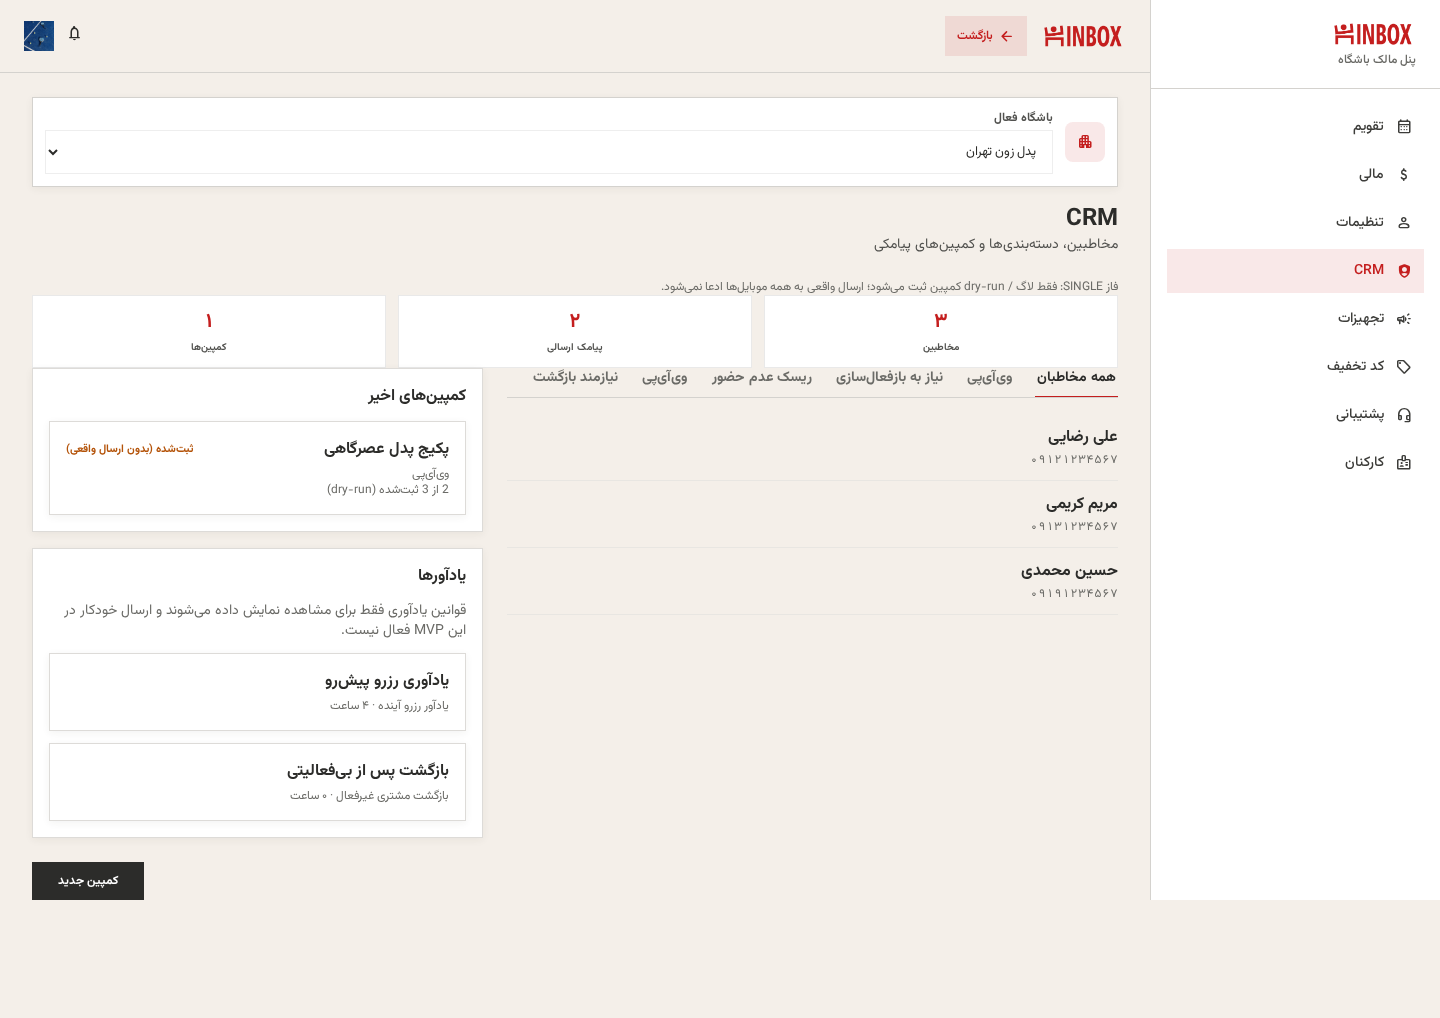
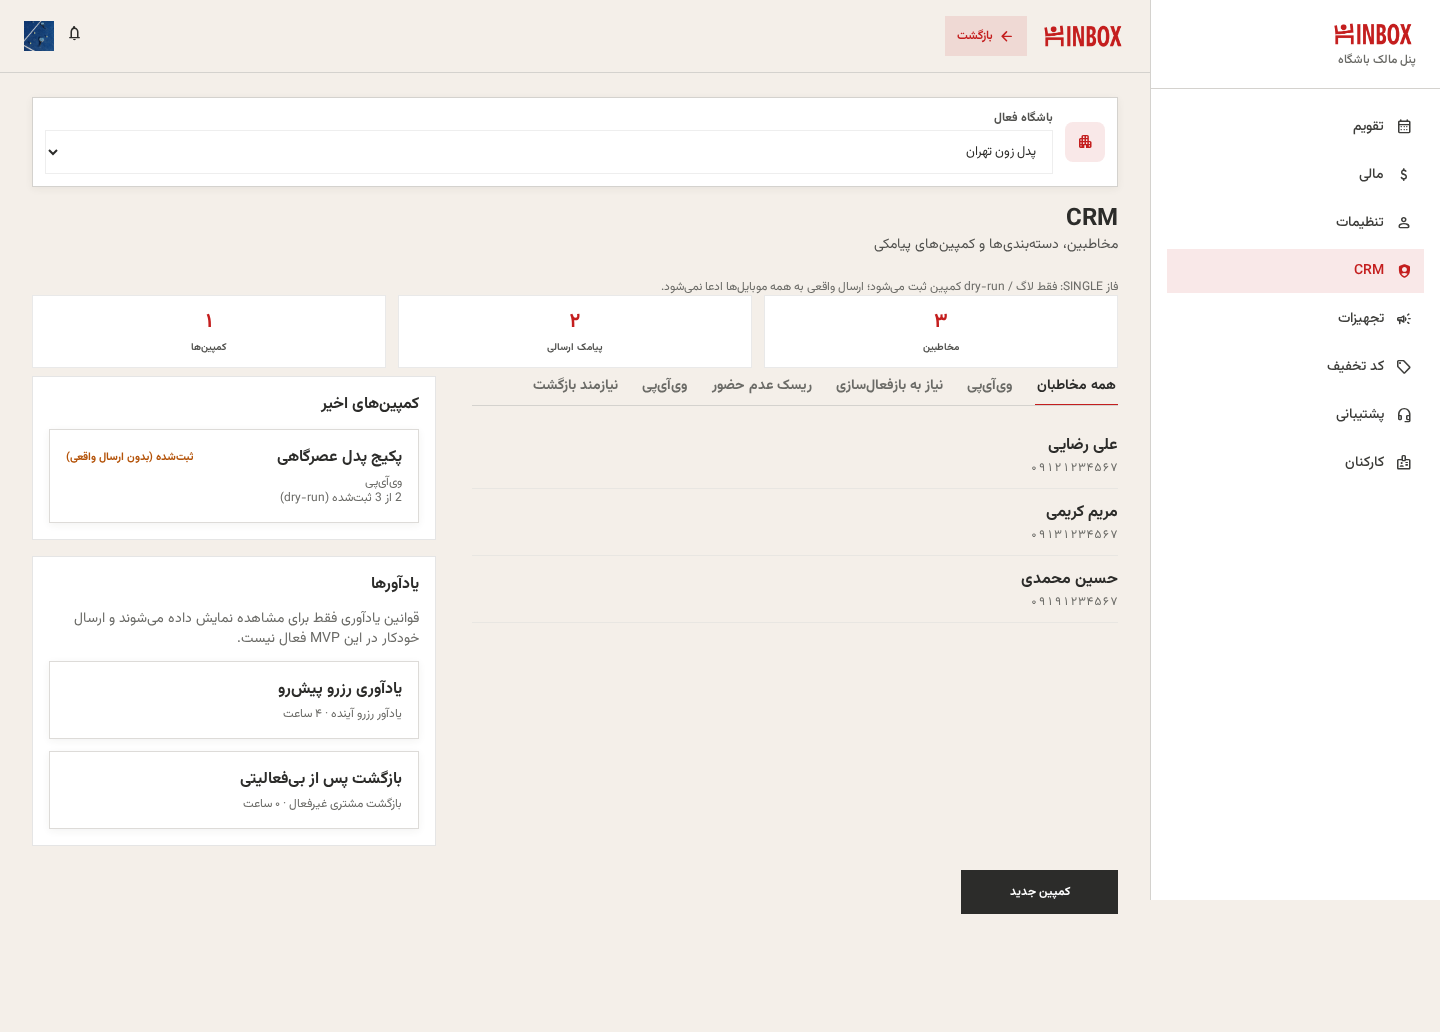
fidelity(owner-crm): SoT column ratio, flat panels, dark compact CTA

diff --git a/app/assets/css/main.css b/app/assets/css/main.css
@@ -4825,3 +4825,11 @@
 @media (min-width: 1024px) {
   .owner-settings-page .canva-gate-btn-secondary { width:220px; padding-block:10px }
 }
+
+/* owner-crm — SoT: list 1.6fr | side 1fr, flat cxbox panels, dark CTA start-aligned ~157px */
+@media (min-width: 1024px) {
+  .owner-crm-page .canva-crm-wide { grid-template-columns:minmax(0,1.6fr) minmax(0,1fr); gap:2.25rem; margin-top:.5rem }
+  .owner-crm-page .canva-panel { box-shadow:none; border:1px solid rgba(44,44,42,.12); border-radius:0 }
+  .owner-crm-page .canva-crm-cta-row { display:flex; justify-content:flex-start; margin-top:1.5rem }
+  .owner-crm-page .canva-crm-cta-row .canva-black-cta { width:157px; padding-block:.75rem; font-size:12px; background:#2c2c2a; border-radius:0 }
+}

diff --git a/app/pages/owner/crm.vue b/app/pages/owner/crm.vue
@@ -279,7 +279,7 @@ async function send() {
 </script>
 
 <template>
-  <div class="venus-page-stack pb-24">
+  <div class="venus-page-stack pb-24 owner-crm-page">
     <CanvaSubpageHeader to="/owner/calendar?more=1" :title="t('owner.crm')" :subtitle="t('owner.crmPage.subtitle')" />
     <OwnerActiveClubBar class="mb-3" />
 
